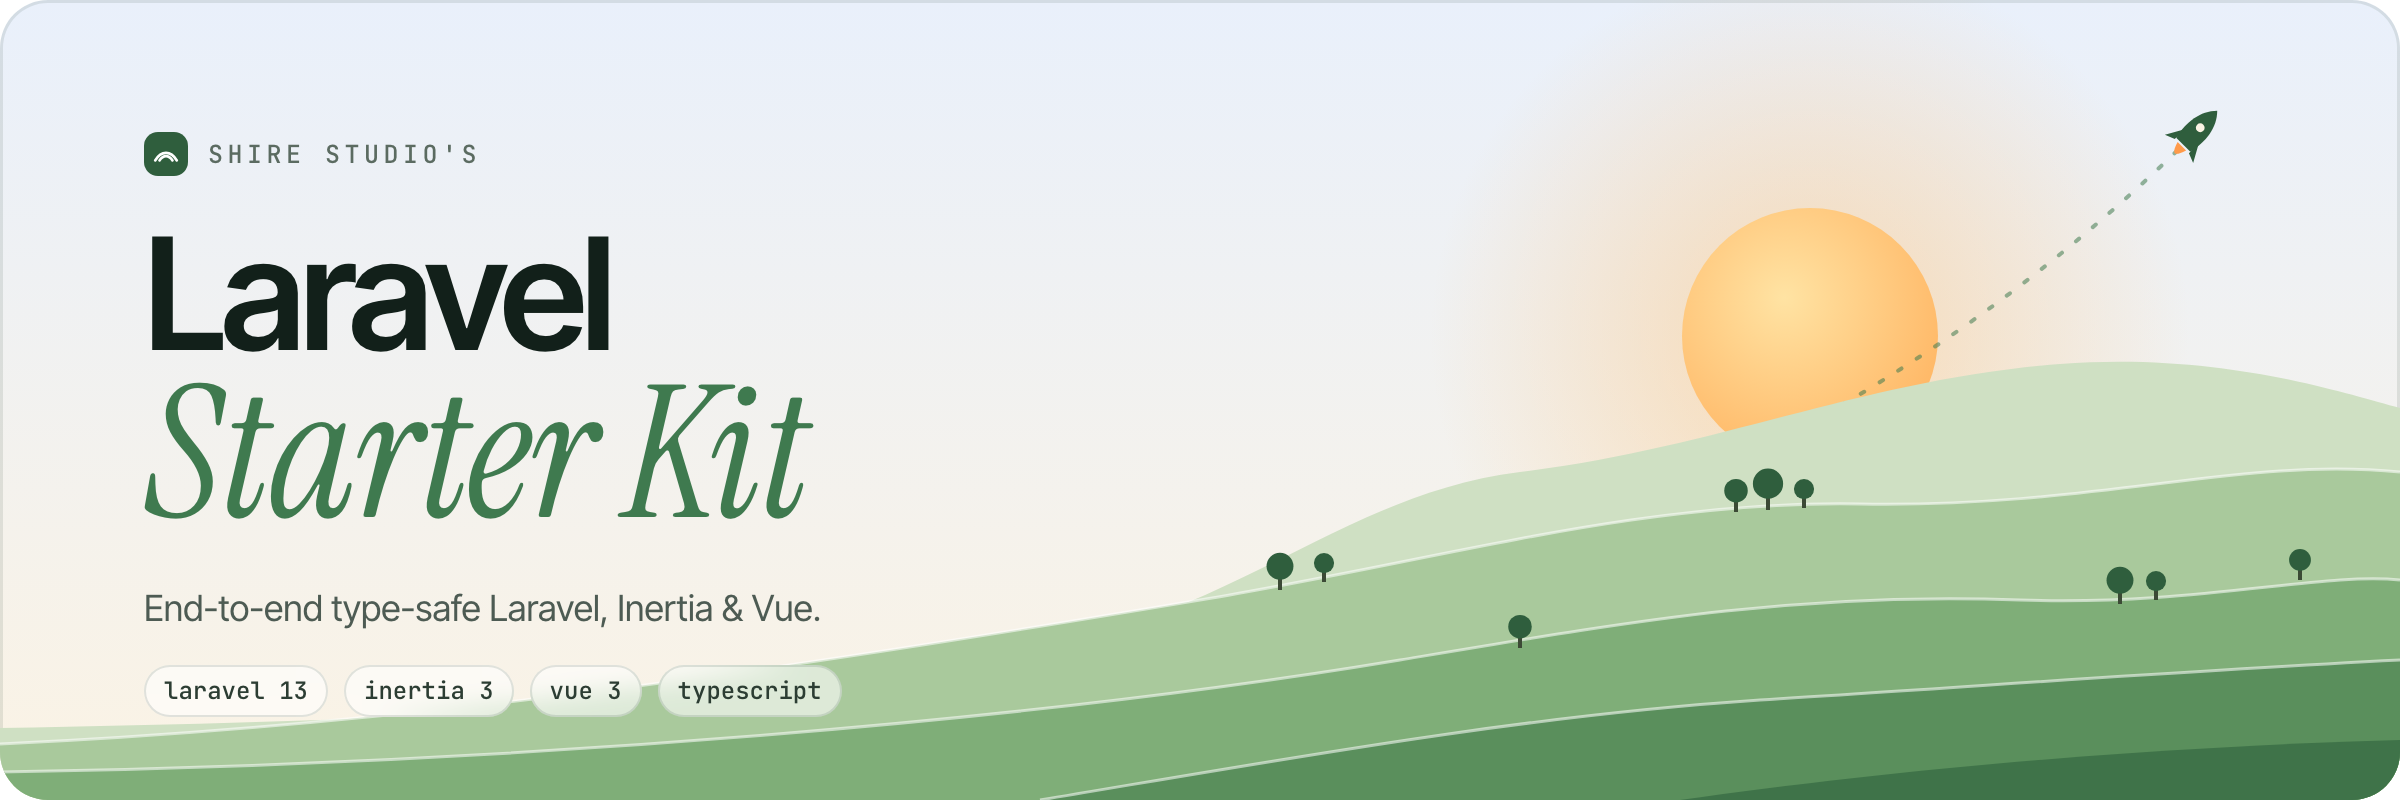
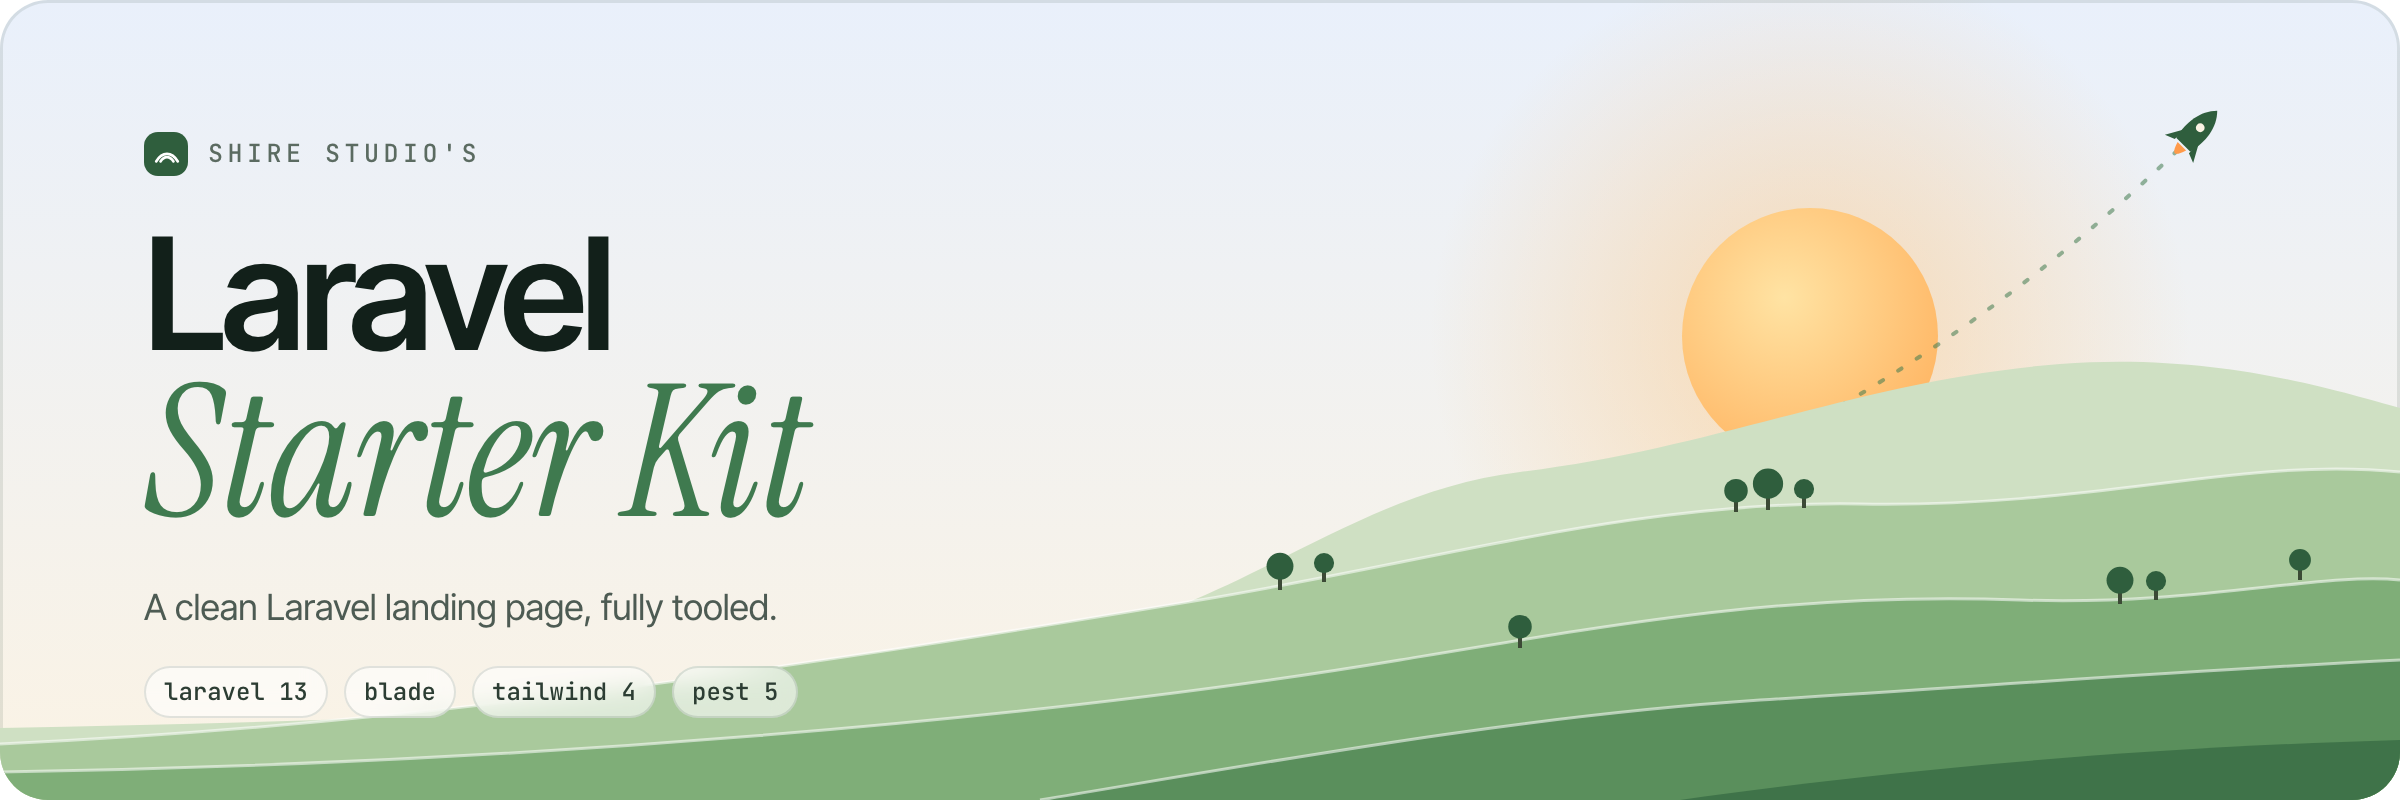
Merge pull request #1 from shire-studio/docs/per-kit-readmes-and-art
docs: give every kit the CLI README and its own artwork

Posted from Hobbiton: https://github.com/shire-studio/hobbiton/commit/cdd084a08187e6eee601ddf4f640897f741b3669

diff --git a/art/header.html b/art/header.html
@@ -125,8 +125,8 @@
       Shire Studio's
     </div>
     <h1>Laravel<em>Starter Kit</em></h1>
-    <p class="tagline">End-to-end type-safe Laravel, Inertia &amp; Vue.</p>
-    <div class="stack"><span>laravel 13</span><span>inertia 3</span><span>vue 3</span><span>typescript</span></div>
+    <p class="tagline">A clean Laravel landing page, fully tooled.</p>
+    <div class="stack"><span>laravel 13</span><span>blade</span><span>tailwind 4</span><span>pest 5</span></div>
   </div>
 </div>
 <script>

diff --git a/README.md b/README.md
@@ -1,6 +1,6 @@
 <picture>
     <source media="(prefers-color-scheme: dark)" srcset="art/header-dark.png">
-    <img alt="Logo for Laravel Starter Kit" src="art/header-light.png">
+    <img alt="Logo for the Blade Laravel Starter Kit" src="art/header-light.png">
 </picture>
 
 <br/>
@@ -33,16 +33,65 @@ A strict, fully tested Laravel 13 starter kit with Blade views and Tailwind CSS.
 
 > **Requires [PHP 8.5+](https://php.net/releases/), [Node 22+](https://nodejs.org/), [pnpm](https://pnpm.io/) and a code coverage driver such as [Xdebug](https://xdebug.org/docs/install).**
 
+The recommended way to start a project is the [starter kit CLI](https://github.com/shire-studio/laravel-starter-kit-cli). It works like the `laravel` installer, and it can also bring newer starter kit releases into your project later (see [Keeping Your Project Up to Date](#keeping-your-project-up-to-date)).
+
+Install it globally with Composer:
+
+```bash
+composer global require shire-studio/laravel-starter-kit-cli
+```
+
+This installs the `shire-kit` command. Make sure Composer's global bin directory is on your `PATH` (run `composer global config bin-dir --absolute` to find it). Then create a project:
+
+```bash
+shire-kit new example-app --kit=blade
+cd example-app
+```
+
+This creates `example-app` from the latest stable release of the Blade starter kit. You'll be asked whether to install and build the frontend with pnpm, and whether to initialise a git repository. Pass `--pnpm` or `--no-pnpm` and `--git` or `--no-git` to skip the questions, or `--force` to overwrite an existing directory.
+
+If you'd rather not install the CLI, `composer create-project` works too:
+
 ```bash
 composer create-project shire-studio/laravel-starter-kit-blade --prefer-dist example-app
 cd example-app
+```
 
+Either way, the project gets a `.starter-kit.json` file recording the kit and release it was created from. Commit it, because the CLI reads it to work out which starter kit changes your project hasn't received yet.
+
+Then set it up:
+
+```bash
 # Install dependencies, create .env, generate a key, migrate and build assets
 composer setup
 
 # Start the server, queue worker, logs and Vite
 composer dev
 ```
+
+Pest browser tests need Playwright: `pnpm exec playwright install`.
+
+## Keeping Your Project Up to Date
+
+Once you've built on the starter kit, you can't just pull in new releases, because your project has drifted from it. The CLI's `update` command handles this. Run it from the root of your project:
+
+```bash
+shire-kit update
+```
+
+The project must be in a git repository with no uncommitted changes, so everything the update does can be reviewed with `git diff` and undone with `git restore`. It can live inside a larger repository, such as a monorepo.
+
+The CLI compares the release in your `.starter-kit.json` with the latest one and writes the changes to `.starter-kit-update/` (excluded from git). It then hands them to a coding agent of your choice, which merges them into your code, keeps your own changes and fixes anything the update breaks. Claude Code, Codex, Gemini CLI, OpenCode and Cursor are supported, and only the ones you have installed are offered. Pass `--agent=<agent>` to skip the question.
+
+When the agent is done, the CLI shows the changed files and asks whether to mark the project as updated, which bumps the version in `.starter-kit.json`. Nothing is committed for you. Review the changes, run `composer test`, then commit.
+
+A few things worth knowing:
+
+- **Removed features stay removed.** If you deleted part of the starter kit, such as the landing page, the update won't bring it back. The CLI can record these in `.starter-kit.json` so future updates remember them.
+- **You can skip the agent.** `--agent=none` only prepares `.starter-kit-update/`. Follow `.starter-kit-update/PROMPT.md` yourself or give it to any agent you like.
+- **Older projects** without a `.starter-kit.json` can still be updated. Pass `--kit=blade` (or pick the kit when asked), and the agent works out which release the project started from and asks you to confirm it.
+
+Update regularly. Small, frequent updates are much easier to review than one large jump across several releases. See the [CLI README](https://github.com/shire-studio/laravel-starter-kit-cli#update-an-existing-project) for every option.
 
 ## Available Commands
 
